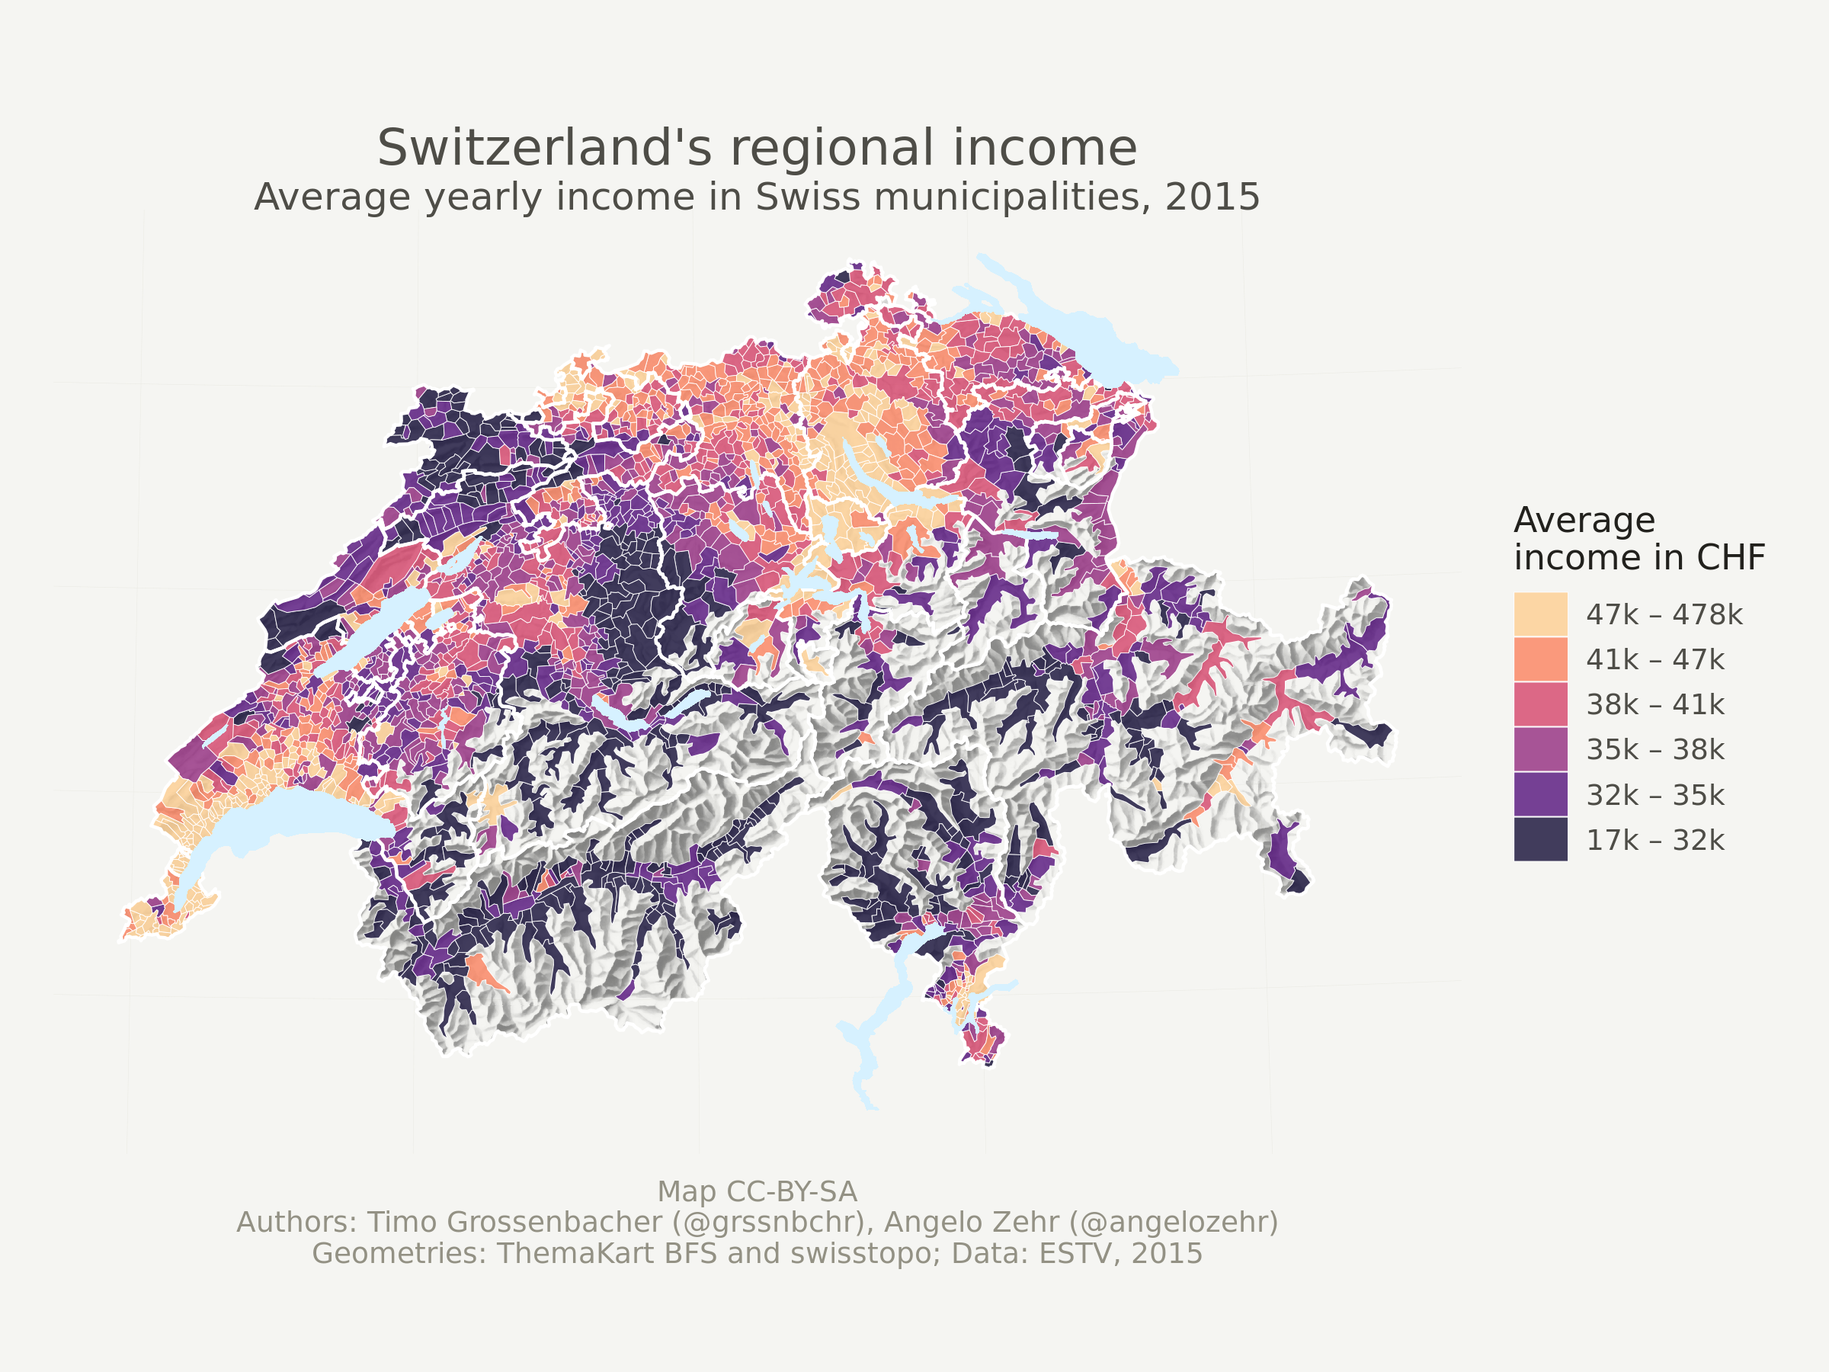
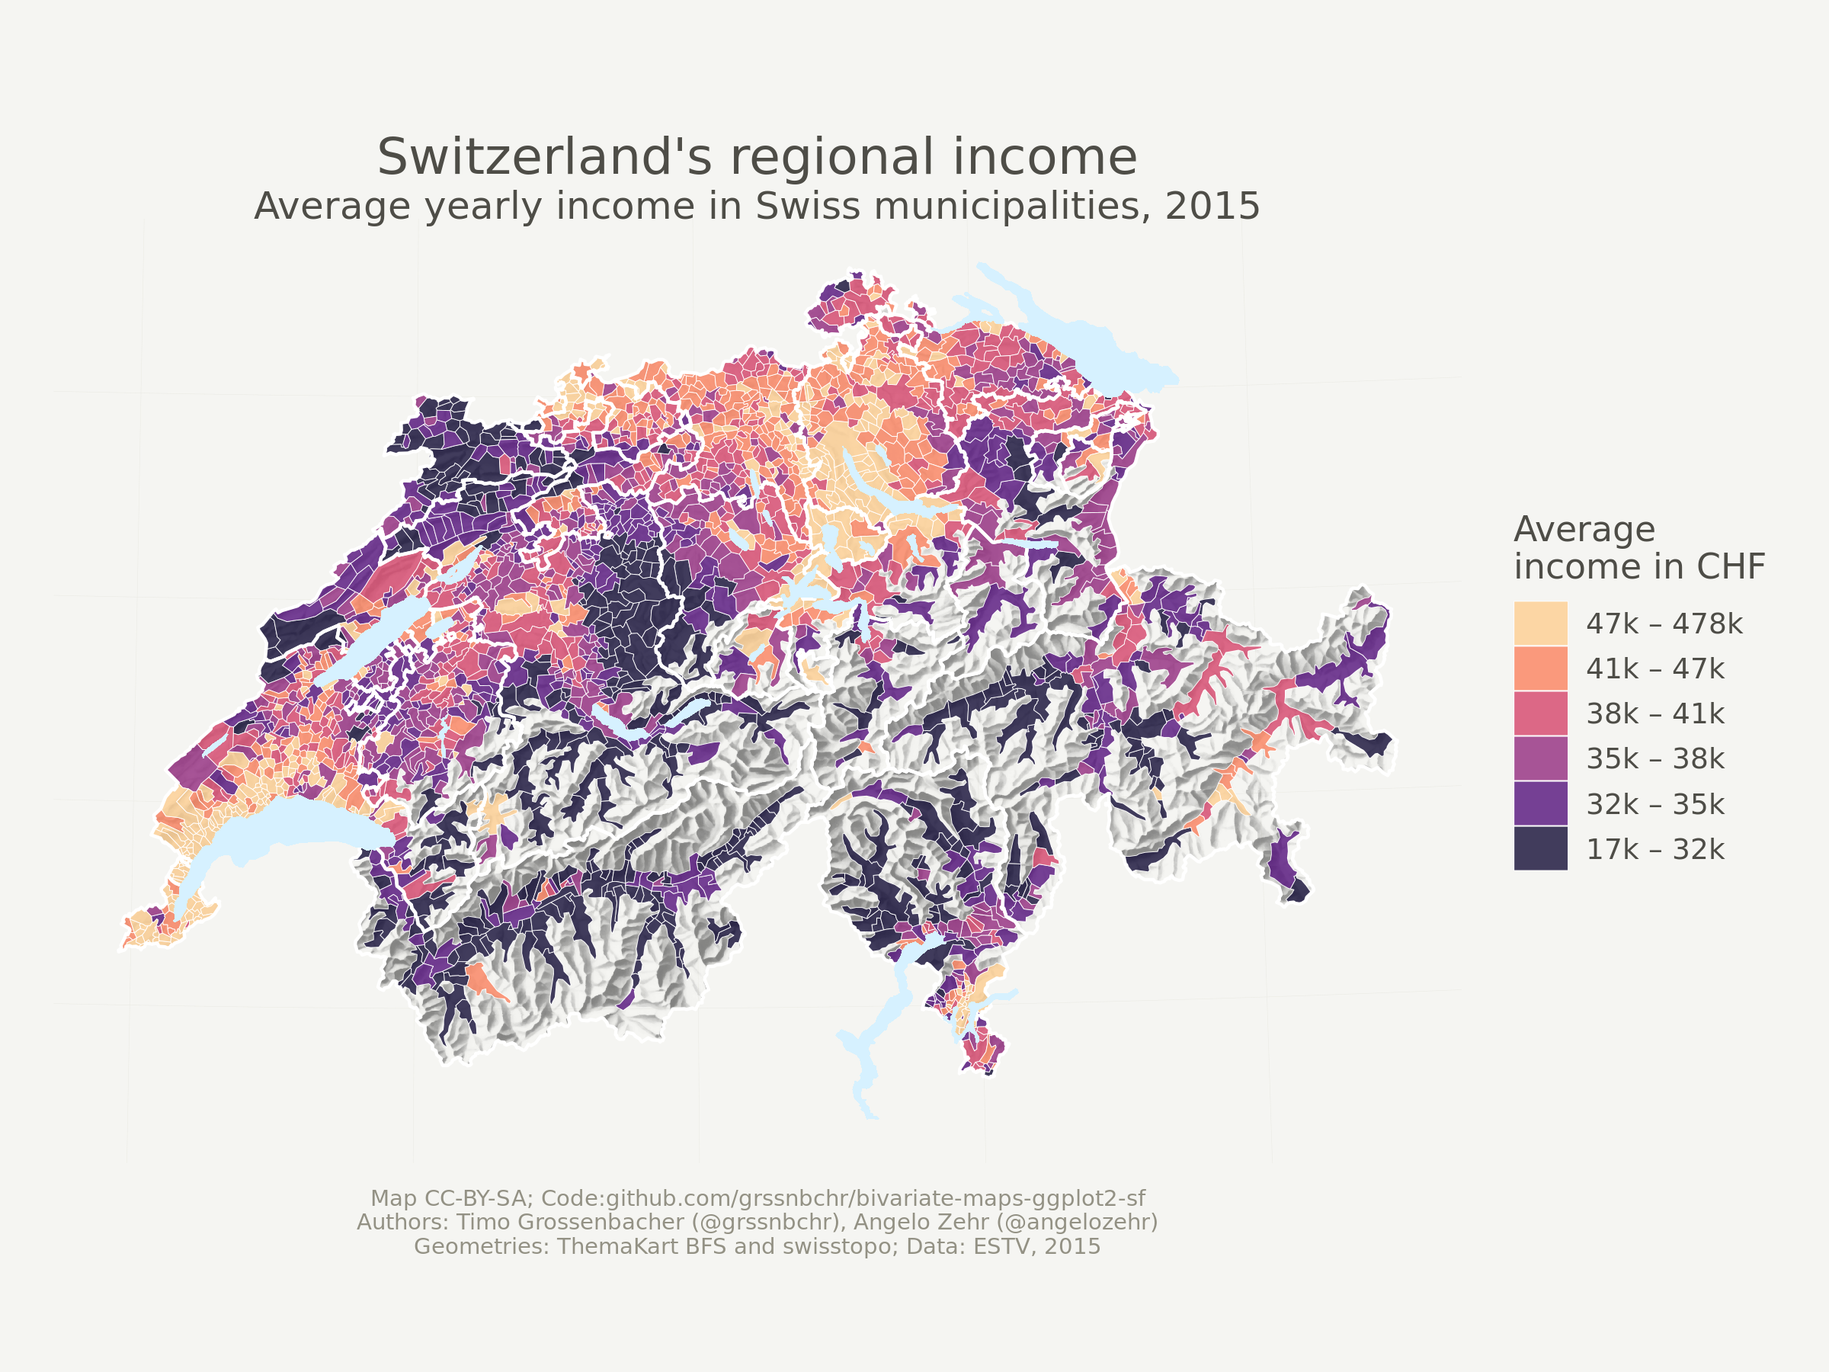
last fine tuning finished

diff --git a/analysis/index.md b/analysis/index.md
@@ -5,7 +5,6 @@
 -   [Define a Map Theme](#define-a-map-theme)
 -   [Create a Univariate Choropleth](#create-a-univariate-choropleth)
 -   [Create a Bivariate Choropleth](#create-a-bivariate-choropleth)
--   [Linting](#linting)
 
 The above map shows income (in-)equality in Switzerland on the
 municipality level by visualizing two variables at the same time: [the
@@ -86,7 +85,7 @@ from <https://github.com/grssnbchr/bivariate-maps-ggplot2-sf>.
 
 ### Version information {#version-information}
 
-This report was generated on 2019-04-19 10:39:15. R version: 3.5.2 on
+This report was generated on 2019-04-19 11:03:35. R version: 3.5.2 on
 x86\_64-pc-linux-gnu. For this report, CRAN packages as of 2019-03-01
 were used.
 
@@ -334,7 +333,7 @@ posts](https://timogrossenbacher.ch/2018/03/categorical-spatial-interpolation-wi
 theme_map <- function(...) {
   theme_minimal() +
   theme(
-    text = element_text(family = "Ubuntu Regular", color = "#22211d"),
+    text = element_text(family = default_font_family, color = default_font_color),
     # remove all axes
     axis.line = element_blank(),
     axis.text.x = element_blank(),
@@ -344,26 +343,32 @@ theme_map <- function(...) {
     panel.grid.major = element_line(color = "#ebebe5", size = 0.2),
     panel.grid.minor = element_blank(),
     # background colors
-    plot.background = element_rect(fill = "#f5f5f2", color = NA), 
-    panel.background = element_rect(fill = "#f5f5f2", color = NA), 
-    legend.background = element_rect(fill = "#f5f5f2", color = NA),
+    plot.background = element_rect(fill = default_background_color, 
+                                   color = NA), 
+    panel.background = element_rect(fill = default_background_color, 
+                                    color = NA), 
+    legend.background = element_rect(fill = default_background_color, 
+                                     color = NA),
     # borders and margins
     plot.margin = unit(c(.5, .5, .2, .5), "cm"),
     panel.border = element_blank(),
     panel.spacing = unit(c(-.1, 0.2, .2, 0.2), "cm"),
     # titles
     legend.title = element_text(size = 11),
-    legend.text = element_text(size = 9, hjust = 0, color = "#4e4d47"),
-    plot.title = element_text(size = 16, hjust = 0.5, color = "#4e4d47"),
-    plot.subtitle = element_text(size = 12, hjust = 0.5, color = "#4e4d47", 
+    legend.text = element_text(size = 9, hjust = 0, 
+                               color = default_font_color),
+    plot.title = element_text(size = 16, hjust = 0.5, 
+                              color = default_font_color),
+    plot.subtitle = element_text(size = 12, hjust = 0.5, 
+                                 color = default_font_color, 
                                  margin = margin(b = -0.1, 
                                                  t = -0.1, 
                                                  l = 2, 
                                                  unit = "cm"), 
                                  debug = F),
     # captions
-    plot.caption = element_text(size = 9, 
-                                # hjust = .5, 
+    plot.caption = element_text(size = 7, 
+                                hjust = .5, 
                                 margin = margin(t = 0.2, 
                                                 b = 0, 
                                                 unit = "cm"), 
@@ -406,8 +411,8 @@ just using `sf` instead of `sp`.
 -   Use two more `geom_sf()` calls to add cantonal borders and lakes
     stemming from the `canton_geo` and `lake_geo` datasets,
     respectively.
--   Specify our previously defined map theme.
 -   Add titles and subtitles.
+-   Specify our previously defined map theme.
 
 ``` r
 # define number of classes
@@ -502,16 +507,9 @@ ggplot(
          y = NULL, 
          title = "Switzerland's regional income", 
          subtitle = "Average yearly income in Swiss municipalities, 2015", 
-         caption = paste0("Map CC-BY-SA\nAuthors: Timo Grossenbacher",
-                          " (@grssnbchr), Angelo Zehr (@angelozehr)",
-                          "\nGeometries: ThemaKart BFS and swisstopo;",
-                          " Data: ESTV, 2015")) +
+         caption = default_caption) +
   # add theme
-  theme_map() +
-  # center caption
-  theme(
-    plot.caption = element_text(hjust = .5)
-  )
+  theme_map()
 ```
 
 <img src="wp-content/uploads/2019/04/bm-thematic-univariate-map-1.png" width="100%" />
@@ -737,10 +735,7 @@ map <- ggplot(
          title = "Switzerland's regional income (in-)equality", 
          subtitle = paste0("Average yearly income and income",
                            " (in-)equality in Swiss municipalities, 2015"),
-         caption = paste0("Map CC-BY-SA\nAuthors: Timo Grossenbacher",
-                          " (@grssnbchr), Angelo Zehr (@angelozehr)",
-                          "\nGeometries: ThemaKart BFS and swisstopo;",
-                          " Data: ESTV, 2015")) +
+         caption = default_caption) +
   # add the theme
   theme_map()
 
@@ -788,9 +783,10 @@ annotations %>%
         # that's the whole point of doing this loop:
         nudge_x = current %>% pull(nudge_x),
         nudge_y = current %>% pull(nudge_y),
-        family = "Ubuntu Regular",
-        color = "#4e4d47",
-        size = 3
+        # other styles
+        family = default_font_family,
+        color = default_font_color,
+        size = 2
       )
   })
 ```
@@ -824,7 +820,7 @@ legend <- ggplot() +
   theme_map() +
   # make font small enough
   theme(
-    axis.title = element_text(size = 6),
+    axis.title = element_text(size = 6)
   ) +
   # quadratic tiles
   coord_fixed()
@@ -843,13 +839,18 @@ The numeric arguments to `draw_plot()` are basically trial and error.
 ``` r
 ggdraw() +
   draw_plot(map, 0, 0, 1, 1) +
-  draw_plot(legend, 0.05, 0.05, 0.2, 0.2)
+  draw_plot(legend, 0.05, 0.075, 0.2, 0.2)
 ```
 
 <img src="wp-content/uploads/2019/04/bm-thematic-bivariate-map-with-legend-1.png" width="100%" />
 
-Linting {#linting}
--------
+That's it! We hoped you liked this tutorial. If you have any questions
+or remarks, or know a better way of doing things, please let us know in
+the comment section.
+
+You can also give us a shout on Twitter:
+\[@grssnbchr\](<https://twitter.com/grssnbchr>) and
+\[@angelozehr\](<https://twitter.com/angelozehr>).
 
 The code in this RMarkdown is listed with the [lintr
 package](https://github.com/jimhester/lintr), which is based on the
@@ -859,135 +860,159 @@ package](https://github.com/jimhester/lintr), which is based on the
 lintr::lint("index.Rmd")
 ```
 
-    ## index.Rmd:79:16: style: Only use double-quotes.
+    ## index.Rmd:78:17: style: Use <-, not =, for assignment.
+    ## default_caption = paste0("Map CC-BY-SA; Code:",
+    ##                 ^
+    ## index.Rmd:90:16: style: Only use double-quotes.
     ##     fig.path = 'wp-content/uploads/2019/04/bm-',
     ##                ^~~~~~~~~~~~~~~~~~~~~~~~~~~~~~~~
-    ## index.Rmd:279:66: style: Trailing whitespace is superfluous.
-    ##     plot.background = element_rect(fill = "#f5f5f2", color = NA), 
-    ##                                                                  ^
-    ## index.Rmd:280:67: style: Trailing whitespace is superfluous.
-    ##     panel.background = element_rect(fill = "#f5f5f2", color = NA), 
-    ##                                                                   ^
-    ## index.Rmd:290:76: style: Trailing whitespace is superfluous.
-    ##     plot.subtitle = element_text(size = 12, hjust = 0.5, color = "#4e4d47", 
-    ##                                                                            ^
-    ## index.Rmd:291:59: style: Trailing whitespace is superfluous.
+    ## index.Rmd:281:1: style: lines should not be more than 80 characters.
+    ##     text = element_text(family = default_font_family, color = default_font_color),
+    ## ^~~~~~~~~~~~~~~~~~~~~~~~~~~~~~~~~~~~~~~~~~~~~~~~~~~~~~~~~~~~~~~~~~~~~~~~~~~~~~~~~~
+    ## index.Rmd:291:68: style: Trailing whitespace is superfluous.
+    ##     plot.background = element_rect(fill = default_background_color, 
+    ##                                                                    ^
+    ## index.Rmd:292:48: style: Trailing whitespace is superfluous.
+    ##                                    color = NA), 
+    ##                                                ^
+    ## index.Rmd:293:69: style: Trailing whitespace is superfluous.
+    ##     panel.background = element_rect(fill = default_background_color, 
+    ##                                                                     ^
+    ## index.Rmd:294:49: style: Trailing whitespace is superfluous.
+    ##                                     color = NA), 
+    ##                                                 ^
+    ## index.Rmd:295:70: style: Trailing whitespace is superfluous.
+    ##     legend.background = element_rect(fill = default_background_color, 
+    ##                                                                      ^
+    ## index.Rmd:303:52: style: Trailing whitespace is superfluous.
+    ##     legend.text = element_text(size = 9, hjust = 0, 
+    ##                                                    ^
+    ## index.Rmd:305:54: style: Trailing whitespace is superfluous.
+    ##     plot.title = element_text(size = 16, hjust = 0.5, 
+    ##                                                      ^
+    ## index.Rmd:307:57: style: Trailing whitespace is superfluous.
+    ##     plot.subtitle = element_text(size = 12, hjust = 0.5, 
+    ##                                                         ^
+    ## index.Rmd:308:61: style: Trailing whitespace is superfluous.
+    ##                                  color = default_font_color, 
+    ##                                                             ^
+    ## index.Rmd:309:59: style: Trailing whitespace is superfluous.
     ##                                  margin = margin(b = -0.1, 
     ##                                                           ^
-    ## index.Rmd:292:59: style: Trailing whitespace is superfluous.
+    ## index.Rmd:310:59: style: Trailing whitespace is superfluous.
     ##                                                  t = -0.1, 
     ##                                                           ^
-    ## index.Rmd:293:56: style: Trailing whitespace is superfluous.
+    ## index.Rmd:311:56: style: Trailing whitespace is superfluous.
     ##                                                  l = 2, 
     ##                                                        ^
-    ## index.Rmd:294:63: style: Trailing whitespace is superfluous.
+    ## index.Rmd:312:63: style: Trailing whitespace is superfluous.
     ##                                                  unit = "cm"), 
     ##                                                               ^
-    ## index.Rmd:297:42: style: Trailing whitespace is superfluous.
-    ##     plot.caption = element_text(size = 9, 
+    ## index.Rmd:315:42: style: Trailing whitespace is superfluous.
+    ##     plot.caption = element_text(size = 7, 
     ##                                          ^
-    ## index.Rmd:298:46: style: Trailing whitespace is superfluous.
-    ##                                 # hjust = .5, 
-    ##                                              ^
-    ## index.Rmd:299:57: style: Trailing whitespace is superfluous.
+    ## index.Rmd:316:44: style: Trailing whitespace is superfluous.
+    ##                                 hjust = .5, 
+    ##                                            ^
+    ## index.Rmd:317:57: style: Trailing whitespace is superfluous.
     ##                                 margin = margin(t = 0.2, 
     ##                                                         ^
-    ## index.Rmd:300:55: style: Trailing whitespace is superfluous.
+    ## index.Rmd:318:55: style: Trailing whitespace is superfluous.
     ##                                                 b = 0, 
     ##                                                       ^
-    ## index.Rmd:301:62: style: Trailing whitespace is superfluous.
+    ## index.Rmd:319:62: style: Trailing whitespace is superfluous.
     ##                                                 unit = "cm"), 
     ##                                                              ^
-    ## index.Rmd:332:39: style: Trailing whitespace is superfluous.
+    ## index.Rmd:350:39: style: Trailing whitespace is superfluous.
     ## quantiles <- municipality_prod_geo %>% 
     ##                                       ^
-    ## index.Rmd:334:63: style: Trailing whitespace is superfluous.
+    ## index.Rmd:352:63: style: Trailing whitespace is superfluous.
     ##   quantile(probs = seq(0, 1, length.out = no_classes + 1)) %>% 
     ##                                                               ^
-    ## index.Rmd:339:49: style: Trailing whitespace is superfluous.
+    ## index.Rmd:357:49: style: Trailing whitespace is superfluous.
     ##   return(paste0(round(quantiles[idx] / 1000, 0), 
     ##                                                 ^
-    ## index.Rmd:341:36: style: Trailing whitespace is superfluous.
+    ## index.Rmd:359:36: style: Trailing whitespace is superfluous.
     ##                              " – ", 
     ##                                    ^
-    ## index.Rmd:352:27: style: Trailing whitespace is superfluous.
+    ## index.Rmd:370:27: style: Trailing whitespace is superfluous.
     ## municipality_prod_geo %<>% 
     ##                           ^
-    ## index.Rmd:353:36: style: Trailing whitespace is superfluous.
+    ## index.Rmd:371:36: style: Trailing whitespace is superfluous.
     ##   mutate(mean_quantiles = cut(mean, 
     ##                                    ^
-    ## index.Rmd:354:51: style: Trailing whitespace is superfluous.
+    ## index.Rmd:372:51: style: Trailing whitespace is superfluous.
     ##                                breaks = quantiles, 
     ##                                                   ^
-    ## index.Rmd:355:48: style: Trailing whitespace is superfluous.
+    ## index.Rmd:373:48: style: Trailing whitespace is superfluous.
     ##                                labels = labels, 
     ##                                                ^
-    ## index.Rmd:373:25: style: Trailing whitespace is superfluous.
+    ## index.Rmd:391:25: style: Trailing whitespace is superfluous.
     ##   scale_alpha(name = "", 
     ##                         ^
-    ## index.Rmd:374:33: style: Trailing whitespace is superfluous.
+    ## index.Rmd:392:33: style: Trailing whitespace is superfluous.
     ##               range = c(0.6, 0), 
     ##                                 ^
-    ## index.Rmd:375:45: style: Trailing whitespace is superfluous.
+    ## index.Rmd:393:45: style: Trailing whitespace is superfluous.
     ##               guide = F) + # suppress legend  
     ##                                             ^~
-    ## index.Rmd:388:37: style: Trailing whitespace is superfluous.
+    ## index.Rmd:406:37: style: Trailing whitespace is superfluous.
     ##     name = "Average\nincome in CHF", 
     ##                                     ^
-    ## index.Rmd:390:67: style: Trailing whitespace is superfluous.
+    ## index.Rmd:408:67: style: Trailing whitespace is superfluous.
     ##     begin = 0.1, # this option seems to be new (compared to 2016): 
     ##                                                                   ^
-    ## index.Rmd:391:36: style: Trailing whitespace is superfluous.
+    ## index.Rmd:409:36: style: Trailing whitespace is superfluous.
     ##     # with this we can truncate the 
     ##                                    ^
-    ## index.Rmd:399:23: style: Only use double-quotes.
+    ## index.Rmd:417:23: style: Only use double-quotes.
     ##      title.position = 'top',
     ##                       ^~~~~
-    ## index.Rmd:416:17: style: Trailing whitespace is superfluous.
+    ## index.Rmd:434:17: style: Trailing whitespace is superfluous.
     ##   labs(x = NULL, 
     ##                 ^
-    ## index.Rmd:417:19: style: Trailing whitespace is superfluous.
+    ## index.Rmd:435:19: style: Trailing whitespace is superfluous.
     ##          y = NULL, 
     ##                   ^
-    ## index.Rmd:418:50: style: Trailing whitespace is superfluous.
+    ## index.Rmd:436:50: style: Trailing whitespace is superfluous.
     ##          title = "Switzerland's regional income", 
     ##                                                  ^
-    ## index.Rmd:419:75: style: Trailing whitespace is superfluous.
+    ## index.Rmd:437:75: style: Trailing whitespace is superfluous.
     ##          subtitle = "Average yearly income in Swiss municipalities, 2015", 
     ##                                                                           ^
-    ## index.Rmd:451:27: style: Trailing whitespace is superfluous.
+    ## index.Rmd:462:27: style: Trailing whitespace is superfluous.
     ## quantiles_gini <- data %>% 
     ##                           ^
-    ## index.Rmd:452:17: style: Trailing whitespace is superfluous.
+    ## index.Rmd:463:17: style: Trailing whitespace is superfluous.
     ##   pull(gini) %>% 
     ##                 ^
-    ## index.Rmd:456:27: style: Trailing whitespace is superfluous.
+    ## index.Rmd:467:27: style: Trailing whitespace is superfluous.
     ## quantiles_mean <- data %>% 
     ##                           ^
-    ## index.Rmd:457:17: style: Trailing whitespace is superfluous.
+    ## index.Rmd:468:17: style: Trailing whitespace is superfluous.
     ##   pull(mean) %>% 
     ##                 ^
-    ## index.Rmd:505:75: style: Trailing whitespace is superfluous.
+    ## index.Rmd:516:75: style: Trailing whitespace is superfluous.
     ##   # so each municipality knows its hex value based on the his gini and avg 
     ##                                                                           ^
-    ## index.Rmd:586:25: style: Trailing whitespace is superfluous.
+    ## index.Rmd:597:25: style: Trailing whitespace is superfluous.
     ##   scale_alpha(name = "", 
     ##                         ^
-    ## index.Rmd:587:33: style: Trailing whitespace is superfluous.
+    ## index.Rmd:598:33: style: Trailing whitespace is superfluous.
     ##               range = c(0.6, 0), 
     ##                                 ^
-    ## index.Rmd:588:45: style: Trailing whitespace is superfluous.
+    ## index.Rmd:599:45: style: Trailing whitespace is superfluous.
     ##               guide = F) + # suppress legend  
     ##                                             ^~
-    ## index.Rmd:616:17: style: Trailing whitespace is superfluous.
+    ## index.Rmd:627:17: style: Trailing whitespace is superfluous.
     ##   labs(x = NULL, 
     ##                 ^
-    ## index.Rmd:617:19: style: Trailing whitespace is superfluous.
+    ## index.Rmd:628:19: style: Trailing whitespace is superfluous.
     ##          y = NULL, 
     ##                   ^
-    ## index.Rmd:618:64: style: Trailing whitespace is superfluous.
+    ## index.Rmd:629:64: style: Trailing whitespace is superfluous.
     ##          title = "Switzerland's regional income (in-)equality", 
     ##                                                                ^
-    ## index.Rmd:686:61: style: Trailing whitespace is superfluous.
+    ## index.Rmd:695:61: style: Trailing whitespace is superfluous.
     ##   separate(group, into = c("gini", "mean"), sep = " - ") %>% 
     ##                                                             ^
